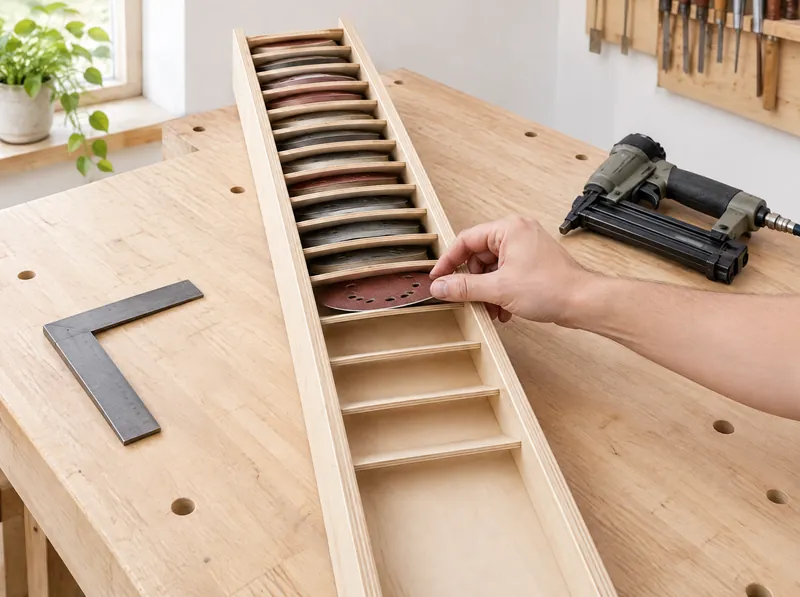
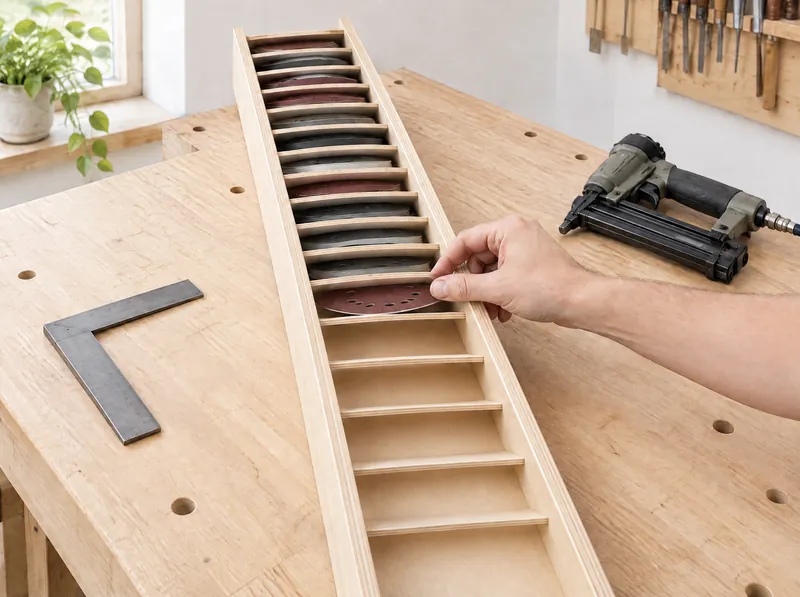
Zakladač: nový obrázok kroku 3 podľa popisu, rovné police v kroku 4
- krok 3: rám z bočníc a zadnej steny leží na chrbte, prvá polica stojí
  kolmo na čiare, uholník v rohu, klincovačka zvonka bočnice v rovine police
- text kroku 3 doplnený o zostavenie rámu
- krok 4: všetky police vodorovné a kolmé na bočnice

Claude-Session: https://claude.ai/code/session_01Y7F8DJ1AwQGECbsVgxHgKv

diff --git a/sandpaper.html b/sandpaper.html
@@ -300,12 +300,12 @@
 
           <li class="step">
             <figure class="step-media">
-              <img src="assets/img/sandpaper-step-3.webp" srcset="assets/img/sandpaper-step-3-800.webp 800w, assets/img/sandpaper-step-3.webp 1400w" sizes="(max-width: 860px) 100vw, 55vw" width="1400" height="1045" loading="lazy" alt="Tenká bočnica stojí na hrane, polica k nej prilieha v pravom uhle, uholník v rohu a klincovačka v rovine police">
+              <img src="assets/img/sandpaper-step-3.webp" srcset="assets/img/sandpaper-step-3-800.webp 800w, assets/img/sandpaper-step-3.webp 1400w" sizes="(max-width: 860px) 100vw, 55vw" width="1400" height="1045" loading="lazy" alt="Rám z bočníc a zadnej steny leží na chrbte, prvá polica stojí kolmo na čiare, uholník v rohu a klincovačka zvonka bočnice v rovine police">
             </figure>
             <div>
               <span class="step-num"><b>3</b> z 6</span>
               <h3>Prvú policu založ presne na čiaru a v pravom uhle</h3>
-              <p class="text">Policu posaď na vyznačenú úroveň, pritlač ju uholníkom a až potom zaisti. Hlava klincovačky musí byť <strong>presne v rovine police</strong>, aby klinec prešiel cez bočnicu do jej hrany. Rovnako zozadu cez zadnú stenu.</p>
+              <p class="text">Najprv k zadnej stene pribi z boku obe bočnice, vznikne dlhý úzky rám. Rám polož na chrbát. Prvú policu postav na hranu na vyznačenú úroveň, pritlač ju uholníkom a až potom zaisti. Hlava klincovačky musí byť <strong>presne v rovine police</strong>, aby klinec prešiel cez bočnicu do jej hrany. Rovnako zozadu cez zadnú stenu.</p>
               <p class="tip"><strong>Prvý kus rozhoduje</strong>O tom, ako rovno pôjde celý 120 cm vysoký stojan, rozhoduje prvá polica. Daj si na nej záležať.</p>
               <p class="tip warn"><strong>Pozor na 6 mm preglejku</strong>Nastreľuj kolmo a s citom. Najprv si prstom over, kde je hrana police, a až potom prilož klincovačku.</p>
             </div>
@@ -313,7 +313,7 @@
 
           <li class="step">
             <figure class="step-media">
-              <img src="assets/img/sandpaper-step-4.webp" srcset="assets/img/sandpaper-step-4-800.webp 800w, assets/img/sandpaper-step-4.webp 1400w" sizes="(max-width: 860px) 100vw, 55vw" width="1400" height="1045" loading="lazy" alt="Stojan ležiaci na chrbte s namontovanými bočnicami, horná polovica políc hotová, ruka skúša vložiť kotúč">
+              <img src="assets/img/sandpaper-step-4.webp" srcset="assets/img/sandpaper-step-4-800.webp 800w, assets/img/sandpaper-step-4.webp 1400w" sizes="(max-width: 860px) 100vw, 55vw" width="1400" height="1045" loading="lazy" alt="Stojan ležiaci na chrbte, horná polovica políc rovno a kolmo nastrelená, ruka skúša vložiť kotúč">
             </figure>
             <div>
               <span class="step-num"><b>4</b> z 6</span>
